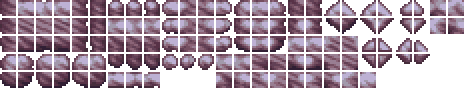
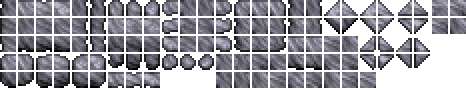
New Limestone Tile, Limestone cobble, New volcanic sand, merge stuff

diff --git a/Tiles/SunkenSea/LimestoneCobble.cs b/Tiles/SunkenSea/LimestoneCobble.cs
@@ -1,4 +1,5 @@
 using CalamityMod.Systems;
+using CalamityMod.Tiles.Merges;
 using Microsoft.Xna.Framework;
 using Terraria;
 using Terraria.ID;
@@ -6,36 +7,36 @@ using Terraria.ModLoader;
 
 namespace CalamityMod.Tiles.SunkenSea
 {
-    public class Basalt : ModTile
+    public class LimestoneCobble : ModTile
     {
         public override void SetStaticDefaults()
         {
-            TileID.Sets.GeneralPlacementTiles[Type] = false;
-            TileID.Sets.HasSlopeFrames[Type] = true;
             Main.tileSolid[Type] = true;
             Main.tileBlockLight[Type] = true;
-            Main.tileShine2[Type] = false;
 
             CalamityUtils.MergeWithGeneral(Type);
-            CalamityUtils.MergeWithDesert(Type);
 
-            DustType = DustID.Ash;
+            TileID.Sets.HasSlopeFrames[Type] = true;
+
+            TileID.Sets.ChecksForMerge[Type] = true;
             HitSound = SoundID.Tink;
-
-            AddMapEntry(new Color(58, 55, 70));
-
-            MinPick = 110;
+            DustType = DustID.Pot;
+            AddMapEntry(new Color(154, 119, 119));
 
             //Stone merges
             this.RegisterUniversalMerge(ModContent.TileType<Shellstone>(), "CalamityMod/Tiles/Merges/ShellstoneMerge");
             this.RegisterUniversalMerge(ModContent.TileType<Navystone>(), "CalamityMod/Tiles/Merges/NavystoneMerge");
             this.RegisterUniversalMerge(ModContent.TileType<Runestone>(), "CalamityMod/Tiles/Merges/RunestoneMerge");
+
             //Sand merges
+            this.RegisterUniversalMerge(ModContent.TileType<PolypSand>(), "CalamityMod/Tiles/Merges/PolypSandMerge");
+            this.RegisterUniversalMerge(ModContent.TileType<ScarletSeaGrassTile>(), "CalamityMod/Tiles/Merges/ScarletSeaGrassTile");
             this.RegisterUniversalMerge(ModContent.TileType<EutrophicSand>(), "CalamityMod/Tiles/Merges/EutrophicSandMerge");
             this.RegisterUniversalMerge(ModContent.TileType<VolcanicSand>(), "CalamityMod/Tiles/Merges/VolcanicSandMerge");
             this.RegisterUniversalMerge(TileID.Sandstone, "CalamityMod/Tiles/Merges/SandstoneMerge");
             this.RegisterUniversalMerge(TileID.Sand, "CalamityMod/Tiles/Merges/SandMerge");
             this.RegisterUniversalMerge(TileID.HardenedSand, "CalamityMod/Tiles/Merges/HardenedSandMerge");
+
             //Normal merges
             this.RegisterUniversalMerge(TileID.Stone, "CalamityMod/Tiles/Merges/StoneMerge");
             this.RegisterUniversalMerge(TileID.Dirt, "CalamityMod/Tiles/Merges/DirtMerge");
@@ -43,16 +44,9 @@ namespace CalamityMod.Tiles.SunkenSea
             this.RegisterUniversalMerge(TileID.Mud, "CalamityMod/Tiles/Merges/MudMerge");
         }
 
-        public override bool CreateDust(int i, int j, ref int type)
-        {
-            Dust.NewDust(new Vector2(i, j) * 16f, 16, 16, 1, 0f, 0f, 1, new Color(100, 100, 100), 1f);
-            return false;
-        }
-
         public override bool TileFrame(int i, int j, ref bool resetFrame, ref bool noBreak)
         {
             return TileFramingSystem.BetterGemsparkFraming(i, j, resetFrame);
         }
-
     }
 }

diff --git a/Tiles/SunkenSea/Limestone.cs b/Tiles/SunkenSea/Limestone.cs
@@ -21,13 +21,27 @@ namespace CalamityMod.Tiles.SunkenSea
             TileID.Sets.ChecksForMerge[Type] = true;
             HitSound = SoundID.Tink;
             DustType = DustID.Pot;
-            AddMapEntry(new Color(154, 119, 119));
+            AddMapEntry(new Color(206, 166, 142));
 
+            //Stone merges
             this.RegisterUniversalMerge(ModContent.TileType<Shellstone>(), "CalamityMod/Tiles/Merges/ShellstoneMerge");
-            this.RegisterUniversalMerge(ModContent.TileType<ScarletSeaGrassTile>(), "CalamityMod/Tiles/Merges/ScarletSeaGrassTile");
-            this.RegisterUniversalMerge(ModContent.TileType<PolypSand>(), "CalamityMod/Tiles/Merges/PolypSandMerge");
-            this.RegisterUniversalMerge(ModContent.TileType<EutrophicSand>(), "CalamityMod/Tiles/Merges/EutrophicSandMerge");
             this.RegisterUniversalMerge(ModContent.TileType<Navystone>(), "CalamityMod/Tiles/Merges/NavystoneMerge");
+            this.RegisterUniversalMerge(ModContent.TileType<Runestone>(), "CalamityMod/Tiles/Merges/RunestoneMerge");
+
+            //Sand merges
+            this.RegisterUniversalMerge(ModContent.TileType<PolypSand>(), "CalamityMod/Tiles/Merges/PolypSandMerge");
+            this.RegisterUniversalMerge(ModContent.TileType<ScarletSeaGrassTile>(), "CalamityMod/Tiles/Merges/ScarletSeaGrassTile");
+            this.RegisterUniversalMerge(ModContent.TileType<EutrophicSand>(), "CalamityMod/Tiles/Merges/EutrophicSandMerge");
+            this.RegisterUniversalMerge(ModContent.TileType<VolcanicSand>(), "CalamityMod/Tiles/Merges/VolcanicSandMerge");
+            this.RegisterUniversalMerge(TileID.Sandstone, "CalamityMod/Tiles/Merges/SandstoneMerge");
+            this.RegisterUniversalMerge(TileID.Sand, "CalamityMod/Tiles/Merges/SandMerge");
+            this.RegisterUniversalMerge(TileID.HardenedSand, "CalamityMod/Tiles/Merges/HardenedSandMerge");
+
+            //Normal merges
+            this.RegisterUniversalMerge(TileID.Stone, "CalamityMod/Tiles/Merges/StoneMerge");
+            this.RegisterUniversalMerge(TileID.Dirt, "CalamityMod/Tiles/Merges/DirtMerge");
+            this.RegisterUniversalMerge(TileID.Ash, "CalamityMod/Tiles/Merges/AshMerge");
+            this.RegisterUniversalMerge(TileID.Mud, "CalamityMod/Tiles/Merges/MudMerge");
         }
 
         public override bool TileFrame(int i, int j, ref bool resetFrame, ref bool noBreak)

diff --git a/Tiles/SunkenSea/AridSoil.cs b/Tiles/SunkenSea/AridSoil.cs
@@ -26,13 +26,25 @@ namespace CalamityMod.Tiles.SunkenSea
             DustType = DustID.Hive;
             AddMapEntry(new Color(171, 101, 87));
 
+            //Stone merges
+            this.RegisterUniversalMerge(ModContent.TileType<Shellstone>(), "CalamityMod/Tiles/Merges/ShellstoneMerge");
+            this.RegisterUniversalMerge(ModContent.TileType<Navystone>(), "CalamityMod/Tiles/Merges/NavystoneMerge");
+            this.RegisterUniversalMerge(ModContent.TileType<Runestone>(), "CalamityMod/Tiles/Merges/RunestoneMerge");
+
+            //Sand merges
+            this.RegisterUniversalMerge(ModContent.TileType<PolypSand>(), "CalamityMod/Tiles/Merges/PolypSandMerge");
+            this.RegisterUniversalMerge(ModContent.TileType<ScarletSeaGrassTile>(), "CalamityMod/Tiles/Merges/ScarletSeaGrassTile");
+            this.RegisterUniversalMerge(ModContent.TileType<EutrophicSand>(), "CalamityMod/Tiles/Merges/EutrophicSandMerge");
+            this.RegisterUniversalMerge(ModContent.TileType<VolcanicSand>(), "CalamityMod/Tiles/Merges/VolcanicSandMerge");
             this.RegisterUniversalMerge(TileID.Sandstone, "CalamityMod/Tiles/Merges/SandstoneMerge");
             this.RegisterUniversalMerge(TileID.Sand, "CalamityMod/Tiles/Merges/SandMerge");
             this.RegisterUniversalMerge(TileID.HardenedSand, "CalamityMod/Tiles/Merges/HardenedSandMerge");
 
-            this.RegisterUniversalMerge(ModContent.TileType<Shellstone>(), "CalamityMod/Tiles/Merges/ShellstoneMerge");
-            this.RegisterUniversalMerge(ModContent.TileType<EutrophicSand>(), "CalamityMod/Tiles/Merges/EutrophicSandMerge");
-            this.RegisterUniversalMerge(ModContent.TileType<Navystone>(), "CalamityMod/Tiles/Merges/NavystoneMerge");
+            //Normal merges
+            this.RegisterUniversalMerge(TileID.Stone, "CalamityMod/Tiles/Merges/StoneMerge");
+            this.RegisterUniversalMerge(TileID.Dirt, "CalamityMod/Tiles/Merges/DirtMerge");
+            this.RegisterUniversalMerge(TileID.Ash, "CalamityMod/Tiles/Merges/AshMerge");
+            this.RegisterUniversalMerge(TileID.Mud, "CalamityMod/Tiles/Merges/MudMerge");
         }
 
         public override void NumDust(int i, int j, bool fail, ref int num)

diff --git a/Tiles/SunkenSea/BlackPearlPile.cs b/Tiles/SunkenSea/BlackPearlPile.cs
@@ -28,18 +28,22 @@ namespace CalamityMod.Tiles.SunkenSea
 
             TileID.Sets.CanBeDugByShovel[Type] = true;
 
+            //Stone merges
             this.RegisterUniversalMerge(ModContent.TileType<Shellstone>(), "CalamityMod/Tiles/Merges/ShellstoneMerge");
             this.RegisterUniversalMerge(ModContent.TileType<PyreMantle>(), "CalamityMod/Tiles/Merges/PyreMantleMerge");
-            this.RegisterUniversalMerge(ModContent.TileType<EutrophicSand>(), "CalamityMod/Tiles/Merges/EutrophicSandMerge");
             this.RegisterUniversalMerge(ModContent.TileType<Navystone>(), "CalamityMod/Tiles/Merges/NavystoneMerge");
             this.RegisterUniversalMerge(ModContent.TileType<Runestone>(), "CalamityMod/Tiles/Merges/RunestoneMerge");
-            this.RegisterUniversalMerge(TileID.Sandstone, "CalamityMod/Tiles/Merges/SandstoneMerge");
-            this.RegisterUniversalMerge(TileID.Sand, "CalamityMod/Tiles/Merges/SandMerge");
-            this.RegisterUniversalMerge(TileID.HardenedSand, "CalamityMod/Tiles/Merges/HardenedSandMerge");
+            //Normal merges
             this.RegisterUniversalMerge(TileID.Stone, "CalamityMod/Tiles/Merges/StoneMerge");
             this.RegisterUniversalMerge(TileID.Dirt, "CalamityMod/Tiles/Merges/DirtMerge");
             this.RegisterUniversalMerge(TileID.Ash, "CalamityMod/Tiles/Merges/AshMerge");
             this.RegisterUniversalMerge(TileID.Mud, "CalamityMod/Tiles/Merges/MudMerge");
+            //Sand merges
+            this.RegisterUniversalMerge(ModContent.TileType<EutrophicSand>(), "CalamityMod/Tiles/Merges/EutrophicSandMerge");
+            this.RegisterUniversalMerge(ModContent.TileType<VolcanicSand>(), "CalamityMod/Tiles/Merges/VolcanicSandMerge");
+            this.RegisterUniversalMerge(TileID.Sandstone, "CalamityMod/Tiles/Merges/SandstoneMerge");
+            this.RegisterUniversalMerge(TileID.Sand, "CalamityMod/Tiles/Merges/SandMerge");
+            this.RegisterUniversalMerge(TileID.HardenedSand, "CalamityMod/Tiles/Merges/HardenedSandMerge");
         }
 
         public override bool TileFrame(int i, int j, ref bool resetFrame, ref bool noBreak)

diff --git a/World/SunkenSea.cs b/World/SunkenSea.cs
@@ -703,7 +703,7 @@ namespace CalamityMod.World
                     {
                         bool canPlaceGrass = false;
 
-                        //place sand clumps on top of exposed limestone
+                        //place grass on top of exposed sand
                         if (Main.tile[X, Y].TileType == ModContent.TileType<PolypSand>() && !Main.tile[X, Y - 1].HasTile && !Main.tile[X, Y - 2].HasTile &&
                         !Main.tile[X, Y - 3].HasTile && !Main.tile[X, Y - 4].HasTile && !Main.tile[X, Y - 5].HasTile)
                         {
@@ -713,6 +713,27 @@ namespace CalamityMod.World
                         if (canPlaceGrass)
                         {
                             PlaceSand(X, Y, 0, ModContent.TileType<ScarletSeaGrassTile>());
+                        }
+                    }
+                    if (Main.tile[X, Y].TileType == ModContent.TileType<Limestone>())
+                    {
+                        if (WorldGen.genRand.NextBool(25) && !Main.tile[X - 1, Y].HasTile)
+                        {
+                            ushort[] Soil = new ushort[] { (ushort)ModContent.TileType<LimestoneCobble>() };
+
+                            ShapeData circle = new ShapeData();
+                            GenAction blotchMod = new Modifiers.Blotches(2, 0.4);
+                            WorldUtils.Gen(new Point(X, Y), new Shapes.Circle(WorldGen.genRand.Next(3, 7)), Actions.Chain(new GenAction[]
+                            {
+                                    blotchMod.Output(circle)
+                            }));
+
+                            WorldUtils.Gen(new Point(X, Y), new ModShapes.All(circle), Actions.Chain(new GenAction[]
+                            {
+                                    new Modifiers.OnlyTiles((ushort)ModContent.TileType<Limestone>()),
+                                    new Actions.ClearTile(), new Actions.PlaceTile(WorldGen.genRand.Next(Soil))
+                            }));
+
                         }
                     }
                 }

diff --git a/World/DraedonStructures.cs b/World/DraedonStructures.cs
@@ -48,7 +48,7 @@ namespace CalamityMod.World
             if (tile.TileType == ModContent.TileType<Basalt>() ||
             tile.TileType == ModContent.TileType<Navystone>() || tile.TileType == ModContent.TileType<HardenedEutrophicSand>() ||
             tile.TileType == ModContent.TileType<Shellstone>() || tile.TileType == ModContent.TileType<EutrophicSand>() ||
-            tile.TileType == ModContent.TileType<Limestone>() || tile.TileType == ModContent.TileType<PolypSand>() || tile.TileType == ModContent.TileType<ScarletSeaGrassTile>() ||
+            tile.TileType == ModContent.TileType<Limestone>() || tile.TileType == ModContent.TileType<PolypSand>() || tile.TileType == ModContent.TileType<ScarletSeaGrassTile>() || tile.TileType == ModContent.TileType<LimestoneCobble>() ||
             tile.TileType == ModContent.TileType<Runestone>() || tile.TileType == ModContent.TileType<Dunesand>() ||
             tile.WallType == ModContent.WallType<NavystoneWall>() || // hardened eutrophic sand doesnt have a wall lol
             tile.WallType == ModContent.WallType<ShellstoneWall>() || tile.WallType == ModContent.WallType<EutrophicSandWall>() ||

diff --git a/Utilities/TileUtils.cs b/Utilities/TileUtils.cs
@@ -450,6 +450,8 @@ namespace CalamityMod
             TileType<Dunesand>(),
             TileType<Navystone>(),
             TileType<EutrophicSand>(),
+            TileType<Limestone>(),
+            TileType<LimestoneCobble>(),
             TileType<SulphurousShale>(),
             TileType<AbyssGravel>(),
             TileType<Voidstone>(),
@@ -520,6 +522,7 @@ namespace CalamityMod
             TileType<CelestialRemains>(),
             // Sunken Sea
             TileType<Limestone>(),
+            TileType<LimestoneCobble>(),
             TileType<PolypSand>(),
             TileType<VolcanicSand>(),
             TileType<PinkPearlPile>(),

diff --git a/Tiles/Merges/VolcanicSandMerge.cs b/Tiles/Merges/VolcanicSandMerge.cs
@@ -1,0 +1,16 @@
+using System;
+using System.Collections.Generic;
+using System.Linq;
+using System.Text;
+using System.Threading.Tasks;
+using CalamityMod.Systems;
+using CalamityMod.Tiles.SunkenSea;
+using Terraria.ModLoader;
+
+namespace CalamityMod.Tiles.Merges
+{
+    public sealed class VolcanicSandMerge : TileBlendTexture
+    {
+        public override int TileType => ModContent.TileType<VolcanicSand>();
+    }
+}

diff --git a/Tiles/CalamityGlobalTile.cs b/Tiles/CalamityGlobalTile.cs
@@ -33,6 +33,7 @@ namespace CalamityMod.Tiles
             TileType<Navystone>(),
             TileType<Shellstone>(),
             TileType<Limestone>(),
+            TileType<LimestoneCobble>(),
             TileType<Voidstone>()
         };
 
